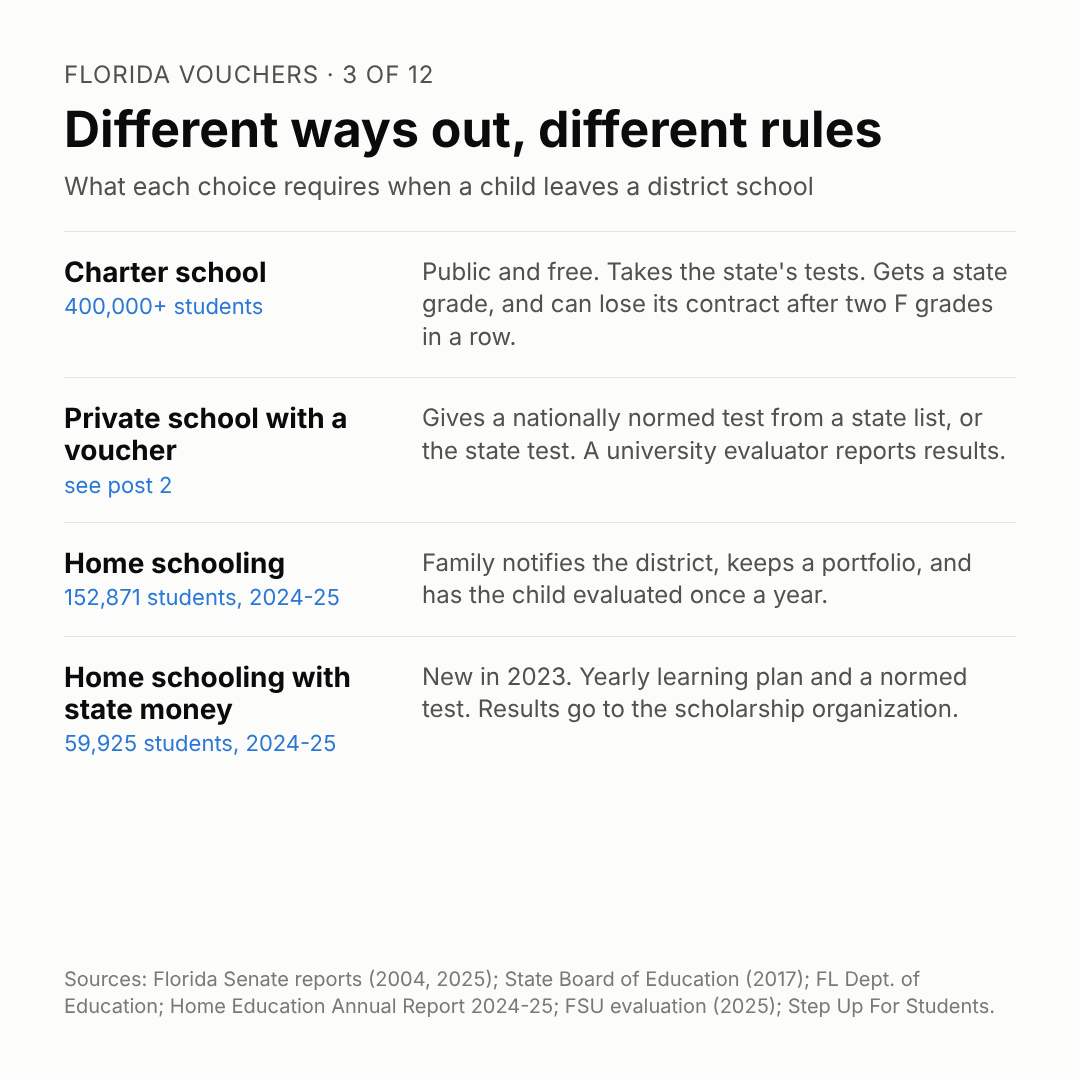
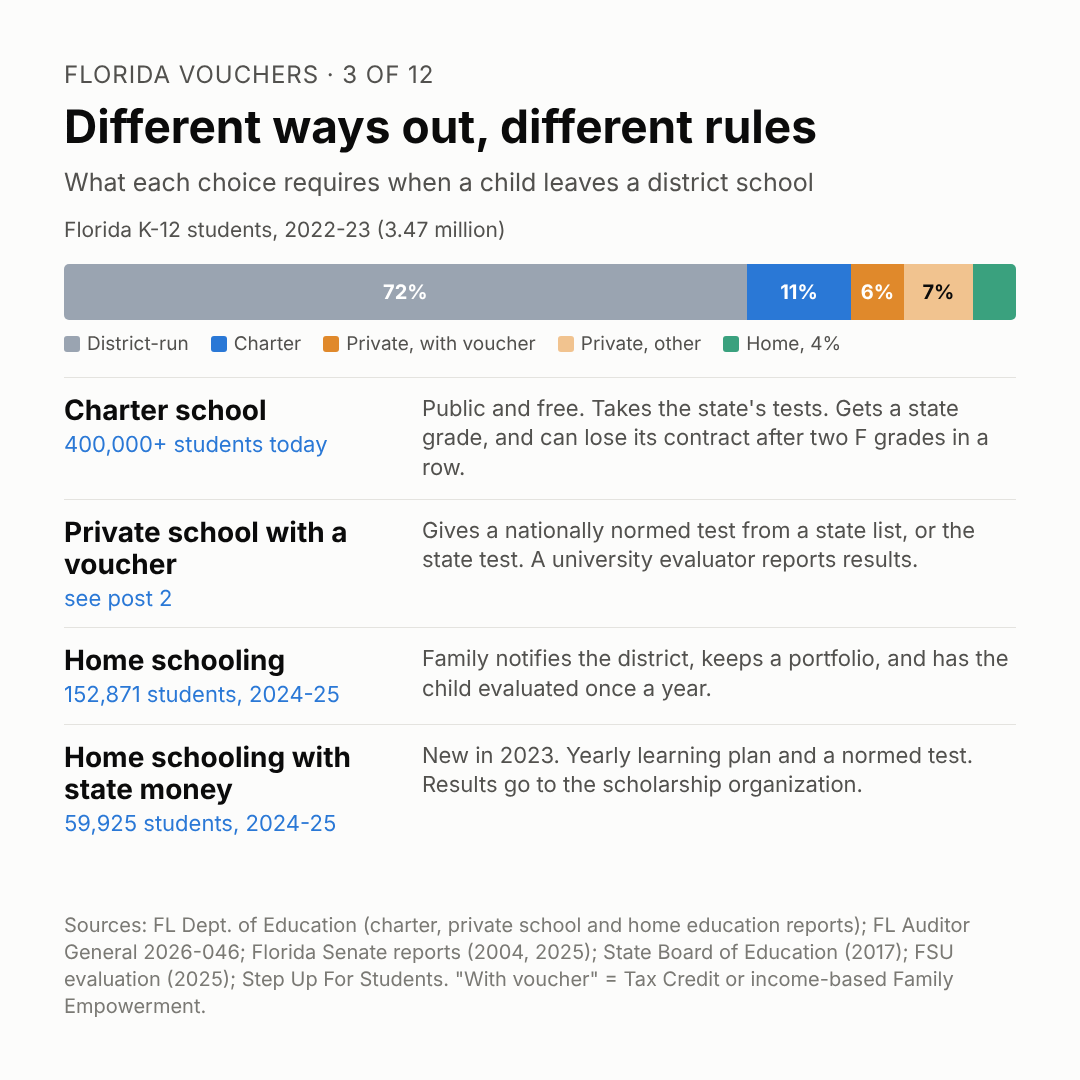
Post 3, draft 2: students by setting; plan post 10 widened
Claude-Session: https://claude.ai/code/session_01Tv8dvGSMcMCRhxNzj4GXHG

diff --git a/series/florida-vouchers/03-charters-and-home-schooling/post.md b/series/florida-vouchers/03-charters-and-home-schooling/post.md
@@ -4,12 +4,12 @@ series: florida-vouchers
 number: 3
 status: draft
 image: image.png
-updated: 2026-10-22
+updated: 2026-10-23
 ---
 
 # Post 3 of 12: Charter schools and home schooling
 
-Draft 1, 22 Oct 2026. Parts: the post text, the first comment (sources), the fact-check table, the notes (details kept out of the main text), and the editor's notes. Image: [image.png](image.png).
+Draft 2, 23 Oct 2026. Parts: the post text, the first comment (sources), the fact-check table, the notes (details kept out of the main text), and the editor's notes. Image: [image.png](image.png).
 
 ---
 
@@ -22,6 +22,8 @@ Charter Schools and Home Schooling: Florida's Other Ways Out
 Vouchers are one of three ways Florida families leave district-run public schools. The other two are charter schools and home schooling. Each comes with its own rules. In 2023, the state began paying for home schooling for any child.
 
 The second post in this series looked at who uses Florida's vouchers. This post looks at the other two choices.
+
+First, the scale. In 2022-23, the last school year before vouchers were open to every child, Florida had about 3.47 million students from kindergarten through 12th grade. About 72 percent attended district-run public schools. About 11 percent attended charter schools. About 13 percent attended private schools, and more than four in ten of those private school students had a voucher. About 4 percent were home-schooled.
 
 Florida authorized charter schools in 1996. Five opened that school year, serving about 600 students, according to a 2004 Florida Senate report. A charter school is a public school. It charges no tuition. A nonprofit group runs it under a contract with the school district, and the state pays for its students through the same formula it uses for other public schools.
 
@@ -43,7 +45,7 @@ Supporters and opponents read these choices differently. Sen. Don Gaetz, a Repub
 
 Andrew Spar, president of the Florida Education Association, the statewide teachers union, opposed that year's efforts to expand charter schools. He called them "this constant eating away at the public schools" and said, "We cannot end up with public schools that are schools of last resort."
 
-In 1996, five charter schools opened with about 600 students. Today, more than 400,000 children attend charter schools, and the state pays for tens of thousands of home-schooled children. The next post looks at the private schools that take vouchers, and at how many of them are religious.
+In 1996, five charter schools opened with about 600 students. Today, more than 400,000 children attend charter schools, and the state pays for tens of thousands of home-schooled children. Who runs charter schools, and who profits from them and from the home-schooling scholarship, is the subject of a later post. The next post looks at the private schools that take vouchers, and at how many of them are religious.
 
 Sources are in the first comment.
 
@@ -65,6 +67,7 @@ Sources for this post:
 10. Testing in private schools that take vouchers: Florida State University Learning Systems Institute, Family Empowerment Scholarship evaluation, June 2025, p. 2. https://origin.fldoe.org/file/5606/FES-Report2024.pdf
 11. Sen. Gaetz and Andrew Spar: WFSU, "Florida's legislative session has seen many efforts to boost charter schools," May 1, 2025. https://www.wlrn.org/government-politics/2025-05-01/floridas-legislative-session-has-seen-many-efforts-to-boost-charter-schools
 12. Charter and traditional public school results: Florida Department of Education, "Student Achievement in Florida's Charter Schools," 2023-24 and 2024-25. https://www.fldoe.org/file/7778/SAR2023.pdf
+13. Students by setting, 2022-23: Florida Department of Education, "Florida Charter School Enrollment Share, 2022-23" (https://www.fldoe.org/core/fileparse.php/7778/urlt/CharterSchoolEnrollmentShare2122.pdf); "Florida's Private Schools, 2022-23 School Year Annual Report" (https://www.fldoe.org/core/fileparse.php/7562/urlt/PS-AnnualReport2023.pdf); Home Education Annual Report 2024-25 (source 5); Florida Auditor General Report 2026-046, Tables 2 and 4 (https://flauditor.gov/pages/pdf_files/2026-046.pdf).
 
 ---
 
@@ -72,6 +75,8 @@ Sources for this post:
 
 | Claim in the post | Source and what it says |
 |---|---|
+| 2022-23: about 3.47 million K-12 students; 72% district-run, 11% charter, 13% private, 4% home-schooled | FL DOE Charter Enrollment Share 2022-23: public enrollment 2,870,507, charter 382,367 (13.3% of public). Private Schools Annual Report 2022-23: 445,067. Home Education Annual Report: 154,289 in 2022-23. Total 2,870,507 + 445,067 + 154,289 = 3,469,863. District-run = 2,870,507 − 382,367 = 2,488,140 (71.7%). Charter 11.0%; private 12.8%; home 4.4% |
+| More than four in ten private school students had a voucher (2022-23) | Auditor General 2026-046: Tax Credit 100,025 + FES-EO 92,232 = 192,257 in 2022-23; both programs paid only for private school that year. 192,257 / 445,067 = 43.2%. Excludes the disability scholarship (FES-UA, 74,446), which could be used at a private school or at home; the split is not published, so the true share is somewhat higher. The auditor general's counts are undefined department records and may not match the survey's snapshot, so the share is approximate |
 | Charter schools authorized in 1996; five opened, about 600 students | Senate Interim Report 2005-206: "Florida enacted legislation authorizing charter schools in 1996"; "Five charter schools serving about 600 students operated during 1996-97" |
 | Public, no tuition, nonprofit, contract with district | SB 822 analysis p. 2: "Charter schools are tuition-free public schools created through an agreement or 'charter'"; "must be organized as, or be operated by, a nonprofit organization"; "the applicants and district school board agree upon a charter or contract" |
 | Paid through the same formula | Senate 2005-206: "Because a charter school is a public school," the same per-student funding calculation applies; funds "flow through a local school district" |
@@ -103,6 +108,7 @@ Sources for this post:
 
 ## Notes: details kept out of the main text
 
+- **Students by setting, 2022-23, in full.** District-run public 2,488,140 (71.7%); charter 382,367 (11.0%); private with a Tax Credit or FES-EO voucher 192,257 (5.5%); other private 252,810 (7.3%), some with a disability scholarship; home-schooled 154,289 (4.4%), some with a disability scholarship. 2022-23 is the latest year with a statewide charter count we found. Before using later years, check for a 2024-25 charter enrollment share report.
 - **Learning gains.** In the same FL DOE report, charter students had higher learning gains in 58 of 96 comparisons in 2024-25 (67 of 96 in 2023-24); traditional public schools led in 31 (22). 
 - **Early charter grades.** By 2003-04, 255 charter schools were operating; of those graded, 52 earned an A, 15 a B, 33 a C, 18 a D and 17 an F. (Senate 2005-206.)
 - **District fee.** Districts may keep an administrative fee of up to 5 percent of a charter school's funding, limited for larger schools. (Senate 2005-206.)
@@ -115,6 +121,12 @@ Sources for this post:
 ---
 
 ## Editor's notes
+
+**Draft 2 (RJ: put 400,000 in context; break private schools down by vouchers):**
+- Added a short paragraph with the share of students in each setting, for 2022-23, the latest year with all counts in state records. Private schools are broken into with and without a voucher (43 percent with one of the two income-based vouchers).
+- Image: added a bar showing the five groups.
+- One sentence now points to the later post on who runs charter schools and who profits.
+- RJ agreed that charter management companies' profits and home-schooling scholarship spending go to post 10 (plan updated); post 3 stays on the rules.
 
 **Draft 1:**
 - One idea: three ways out of district schools, each with its own rules, and the 2023 law that began paying for home schooling for any child. The rules comparison is the cross-lesson the plan asked for.

diff --git a/series/florida-vouchers/plan.md b/series/florida-vouchers/plan.md
@@ -84,6 +84,8 @@
 - 🔍 **Scholarship organizations:** Step Up For Students administers most scholarships and keeps an administrative fee set in law (percentage to verify). Its founder's role in building the program and funding political campaigns.
 - 🔍 **Erika Donalds (Florida):** former Collier County School Board member; founder of the Optima Foundation, which runs classical charter schools and has received contracts; ties to state education policy and to her husband, Rep. Byron Donalds. Sort what's documented (state records, contracts, disclosure forms) from what's alleged. Note that her business is mainly in charters, so this links to post 3.
 - 🔍 **Betsy DeVos (national):** before becoming U.S. education secretary, she chaired the American Federation for Children, which funds pro-voucher campaigns, including in Florida. Her ethics agreement and divestitures on taking office. Her policies as secretary.
+- 🔍 **Charter management companies** *(added 23 Oct at RJ's request)*: who runs Florida's charter schools, how many are managed by for-profit companies, and what those companies earn (management fees, real estate leases), from audited financial statements and district contract records.
+- 🔍 **Home-schooling scholarship spending** *(added 23 Oct)*: what Personalized Education Program and disability scholarship money is spent on, including reported purchases such as theme park tickets, checked against audit records and the rules on allowed purchases.
 - 🔍 **Legislators and officials with private-school or charter interests,** found through Florida financial disclosure forms and lobbying records.
 - 🔍 **Campaign money:** spending by pro-voucher groups and by teachers unions in Florida legislative races, so both sides' money is shown.
 - *Shape:* the documented facts, the conflict-of-interest rules that applied, and each person's on-the-record answer. No conclusion beyond what the records show.
